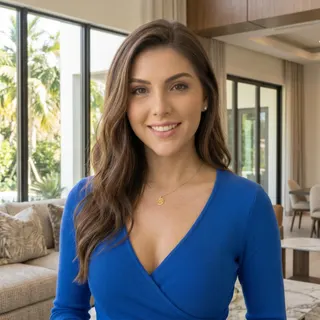
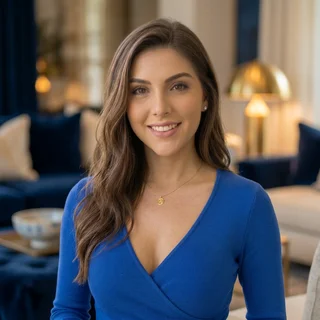
Book a Free Consultation button; Madison card photo with soft interior background (no windows)

diff --git a/src/app/page.tsx b/src/app/page.tsx
@@ -19,7 +19,7 @@ export default function Home(){
  return <div className="coastal-home"><section className="coastal-hero hero-v2">
  {/* Decorative hero photo (not a listing). Keep property facts in results and listing pages. */}
  <picture className="hero-photo" aria-hidden="true"><source media="(max-width:700px)" srcSet="/images/hero-palm-beach-dusk-mobile.webp"/><img src="/images/hero-palm-beach-dusk.webp" alt="" fetchPriority="high" decoding="async"/></picture><span className="hero-photo-shade" aria-hidden="true"/>
- <div className="container coastal-hero-content"><span className="hero-eyebrow">Local Expertise • Personally Guided</span><h1>Palm Beach County Homes for Sale &amp; Rent</h1><p>Boca Raton to Jupiter, with Paul Schafranick, Realtor®.</p><HeroSearch/><div className="hero-lead-actions"><a className="btn hero-gold" href="#lead-form">Get a Call</a><a className="hero-call-link" href="tel:+15612557285">Call Paul (561) 255-7285</a></div></div></section>
+ <div className="container coastal-hero-content"><span className="hero-eyebrow">Local Expertise • Personally Guided</span><h1>Palm Beach County Homes for Sale &amp; Rent</h1><p>Boca Raton to Jupiter, with Paul Schafranick, Realtor®.</p><HeroSearch/><div className="hero-lead-actions"><a className="btn hero-gold" href="#lead-form">Book a Free Consultation</a><a className="hero-call-link" href="tel:+15612557285">Call Paul (561) 255-7285</a></div></div></section>
 
  <section className="coastal-communities"><div className="container coastal-section"><div className="coastal-section-head"><div><span className="eyebrow">SIX PLACES. ENDLESS POSSIBILITIES.</span><h2>Find your kind of Palm Beach.</h2></div><p>From oceanfront mornings to<br/>a little more room to breathe.</p></div><div className="home-places">{homePlaces.map(({city,tag,photo,alt},i)=><Link className={`home-place home-place-${i}`} href={cityHomeSearchUrl(city)} key={city}><HomePlacePhoto src={homeTilePhotos[city]?.src||photo} alt={homeTilePhotos[city]?.alt||alt}/><div><h3>{city}</h3><p>{tag}</p></div></Link>)}</div></div></section>
  <section className="container coastal-section" id="featured-homes"><Suspense fallback={<FeaturedLoading/>}><HomeFeaturedSection/></Suspense></section><HowPaxWorks/><div className="digital-path container"><span>01 / Discover your place</span><span>02 / Explore the details</span><span>03 / Make your move</span></div><section className="container coastal-section"><div className="coastal-seller"><span className="eyebrow">YOUR NEXT CHAPTER STARTS HERE</span><h2>Thinking of selling?</h2><p>Get a free home value report.<br/>Local perspective. A thoughtful plan. A conversation with Paul.</p><PaxEntry title="Let’s talk about your home" placeholder="What’s my home worth?" initial="What’s my home worth?" chips={["I’m selling and would like a free home value report."]}/></div></section>

diff --git a/src/components/lead-form.tsx b/src/components/lead-form.tsx
@@ -10,7 +10,7 @@ export default function LeadForm(){
   try{await activityReady();const response=await fetch('/api/pax/lead',{method:'POST',headers:{'Content-Type':'application/json'},body:JSON.stringify({name:data.get('name'),phone:data.get('phone'),email:data.get('email'),intent:data.get('intent'),wanted:data.get('message'),purpose:'CONTACT',eventId,analyticsConsent:analyticsConsent()})});const result=await response.json();if(!response.ok)throw new Error(result.error||'Unable to save your request. Please try again.');marketingEvent('Lead',result.eventId);router.push('/thank-you');}
   catch(error){setError(error instanceof Error?error.message:'Please try again.');setBusy(false);}
  }
- return <section className="container section" id="lead-form"><h2>Get a Call</h2><p>Tell Paul about your next move.</p><form className="lead-form" onSubmit={submit}>
+ return <section className="container section" id="lead-form"><h2>Book a Free Consultation</h2><p>Tell Paul about your next move.</p><form className="lead-form" onSubmit={submit}>
  <label>Name<input name="name" autoComplete="name" required maxLength={100}/></label>
  <label>Phone<input name="phone" type="tel" autoComplete="tel" required maxLength={30}/></label>
  <label>Email<input name="email" type="email" autoComplete="email" required maxLength={254}/></label>
